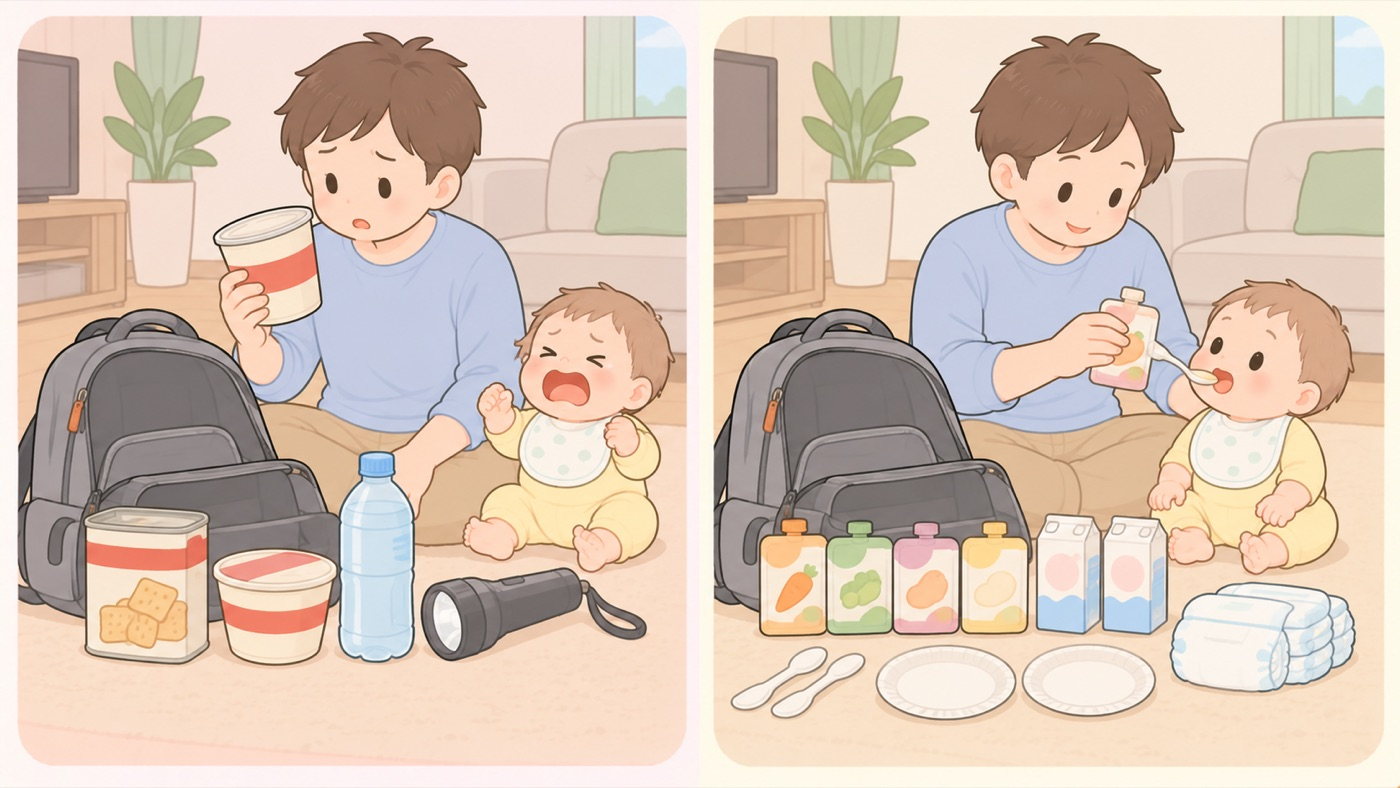
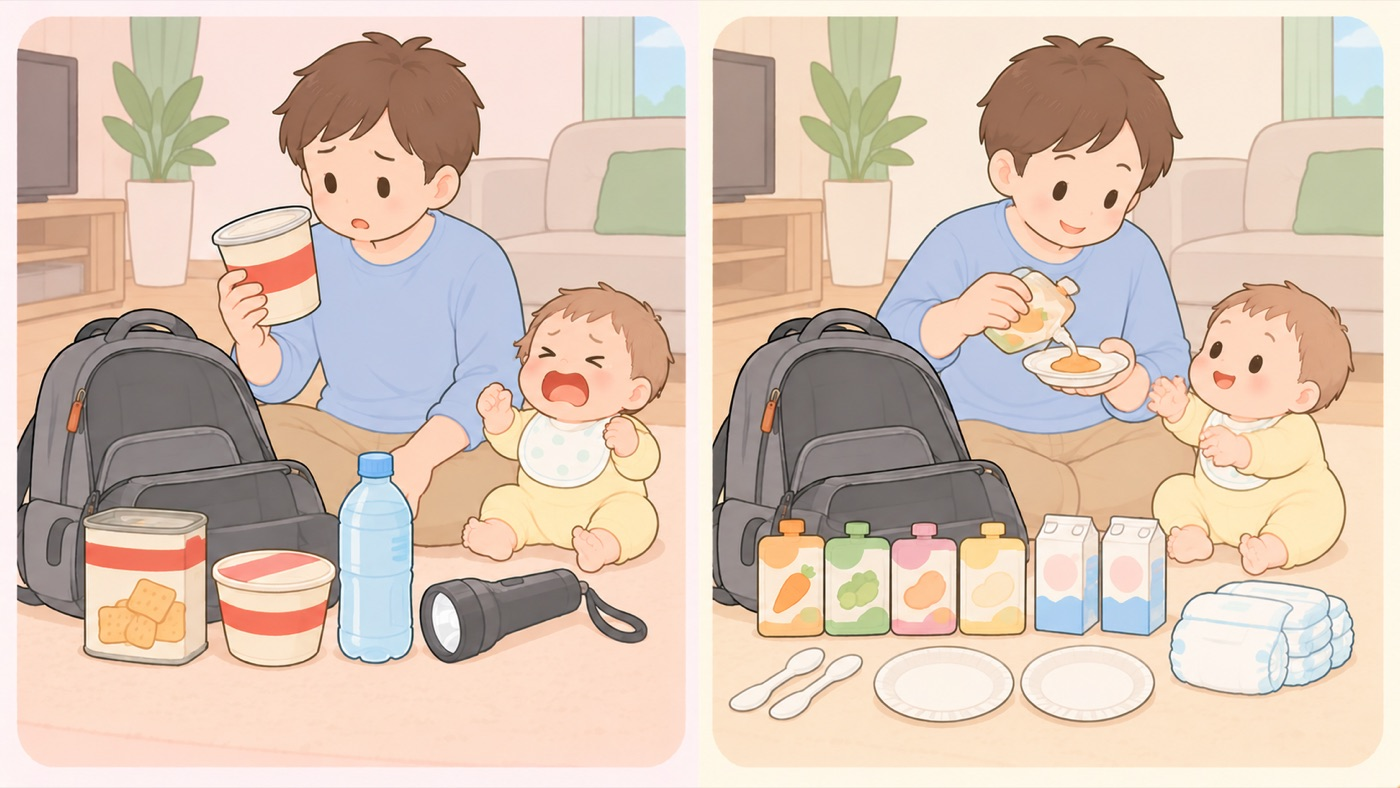
7〜11か月の防災の図を描き直した（スプーンが手から生えていた）
父親が持つスプーンの柄が、握ったこぶしの上に乗っているだけで、
手の中を通っていなかった。持ち方を鉛筆持ちで指定し直しても3回とも
直らなかったので、構図を変えて原因ごと取り除いた。

いまは、片手でパウチ型の離乳食を持ち、もう片方の手で持った紙皿に
中身を出している。どちらの手もはっきり物に触れている。
使い捨てスプーンは床の備蓄品の列に残してあるので、
「食べさせる道具まで備える」という本文の内容は保たれている。

Claude-Session: https://claude.ai/code/session_01EDkkgArvv68s7gzQVsaPbx

diff --git a/index.html b/index.html
@@ -4107,7 +4107,7 @@
     </div>
     <figure class="figure">
       <div class="figure-compare">
-        <img src="assets/img/m7/disaster-m7.jpg" alt="非常持ち出し袋の中身が9か月の赤ちゃんに合っているかの比較図。左は合っていない例で、床に開いたリュックから出してあるのは乾パンの缶、カップめん、ペットボトルの水、懐中電灯といった大人用のものばかり。父親がカップめんを持って困った顔をし、おすわりした赤ちゃんは泣いている。右は合っている例で、同じリュックからパウチ型のレトルト離乳食、使い捨てスプーン、紙皿、紙パックの液体ミルク、紙おむつが出してあり、父親がパウチの離乳食をスプーンで赤ちゃんに食べさせている" width="1400" height="788" loading="lazy" decoding="async">
+        <img src="assets/img/m7/disaster-m7.jpg" alt="非常持ち出し袋の中身が9か月の赤ちゃんに合っているかの比較図。左は合っていない例で、床に開いたリュックから出してあるのは乾パンの缶、カップめん、ペットボトルの水、懐中電灯といった大人用のものばかり。父親がカップめんを持って困った顔をし、おすわりした赤ちゃんは泣いている。右は合っている例で、同じリュックからパウチ型のレトルト離乳食、使い捨てスプーン、紙皿、紙パックの液体ミルク、紙おむつが出してあり、父親が片手でパウチの離乳食を、もう片方の手で持った紙皿に出していて、赤ちゃんはそちらへ手を伸ばしている" width="1400" height="788" loading="lazy" decoding="async">
         <span class="sr-only">左は危険な例、右は安全な例です。</span>
         <span class="judge judge-left judge-ng" aria-hidden="true"><span class="mark">×</span></span>
         <span class="judge judge-right judge-ok" aria-hidden="true"><span class="mark">◯</span></span>

diff --git a/src/content.py b/src/content.py
@@ -2356,7 +2356,7 @@ TABS.append({
              "<strong>5〜6か月はミルクで対応、7〜11か月はおかゆ状のもので対応</strong>としています。"
              "大人の非常食は、この時期の子どもには硬すぎるか、塩分が強すぎます。",
      "figure": ("assets/img/m7/disaster-m7.jpg",
-                "非常持ち出し袋の中身が9か月の赤ちゃんに合っているかの比較図。左は合っていない例で、床に開いたリュックから出してあるのは乾パンの缶、カップめん、ペットボトルの水、懐中電灯といった大人用のものばかり。父親がカップめんを持って困った顔をし、おすわりした赤ちゃんは泣いている。右は合っている例で、同じリュックからパウチ型のレトルト離乳食、使い捨てスプーン、紙皿、紙パックの液体ミルク、紙おむつが出してあり、父親がパウチの離乳食をスプーンで赤ちゃんに食べさせている",
+                "非常持ち出し袋の中身が9か月の赤ちゃんに合っているかの比較図。左は合っていない例で、床に開いたリュックから出してあるのは乾パンの缶、カップめん、ペットボトルの水、懐中電灯といった大人用のものばかり。父親がカップめんを持って困った顔をし、おすわりした赤ちゃんは泣いている。右は合っている例で、同じリュックからパウチ型のレトルト離乳食、使い捨てスプーン、紙皿、紙パックの液体ミルク、紙おむつが出してあり、父親が片手でパウチの離乳食を、もう片方の手で持った紙皿に出していて、赤ちゃんはそちらへ手を伸ばしている",
                 "左：大人の非常食だけでは、この月齢の子は食べられない／右：月齢に合うレトルトと、食べさせる道具まで入れておく", "compare"),
      "checks": [
         ("ok", "ベビーフードを、いまの月齢の区分で備える", "「7か月頃から」「9か月頃から」と書かれた区分のものを選びます。月齢が上がるたびに入れ替えます。そのまま食べられるもの（お湯で戻さないもの）を混ぜておくと、断水しているときに使えます。"),
